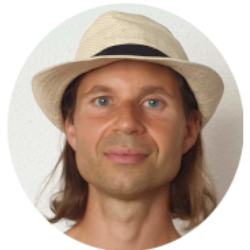
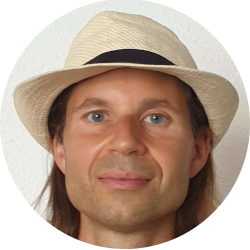
modification photo et bordure

diff --git a/cv.html b/cv.html
@@ -26,7 +26,7 @@
 					<div class="margeh3"> 
 						<div class="adressecontact">
 							<p class="titreadressecontact" > Adresse : </p>
-							<p>63 rue des Templiers</p>
+							<p>63 rue des Peupliers</p>
 							<p>77124 Villenoy</p>
 						</div> 
 	

diff --git a/style.css b/style.css
@@ -31,6 +31,8 @@ justify-content: center;
 margin: auto; /*photo centrée*/
 max-width: 100%; /*taille de l'image*/
 height: auto; /*photo proportionnée*/
+border: 7px solid rgb(0, 0, 0, 0.1);
+border-radius: 50%;
 }
 
 .sectioncontactapropos
